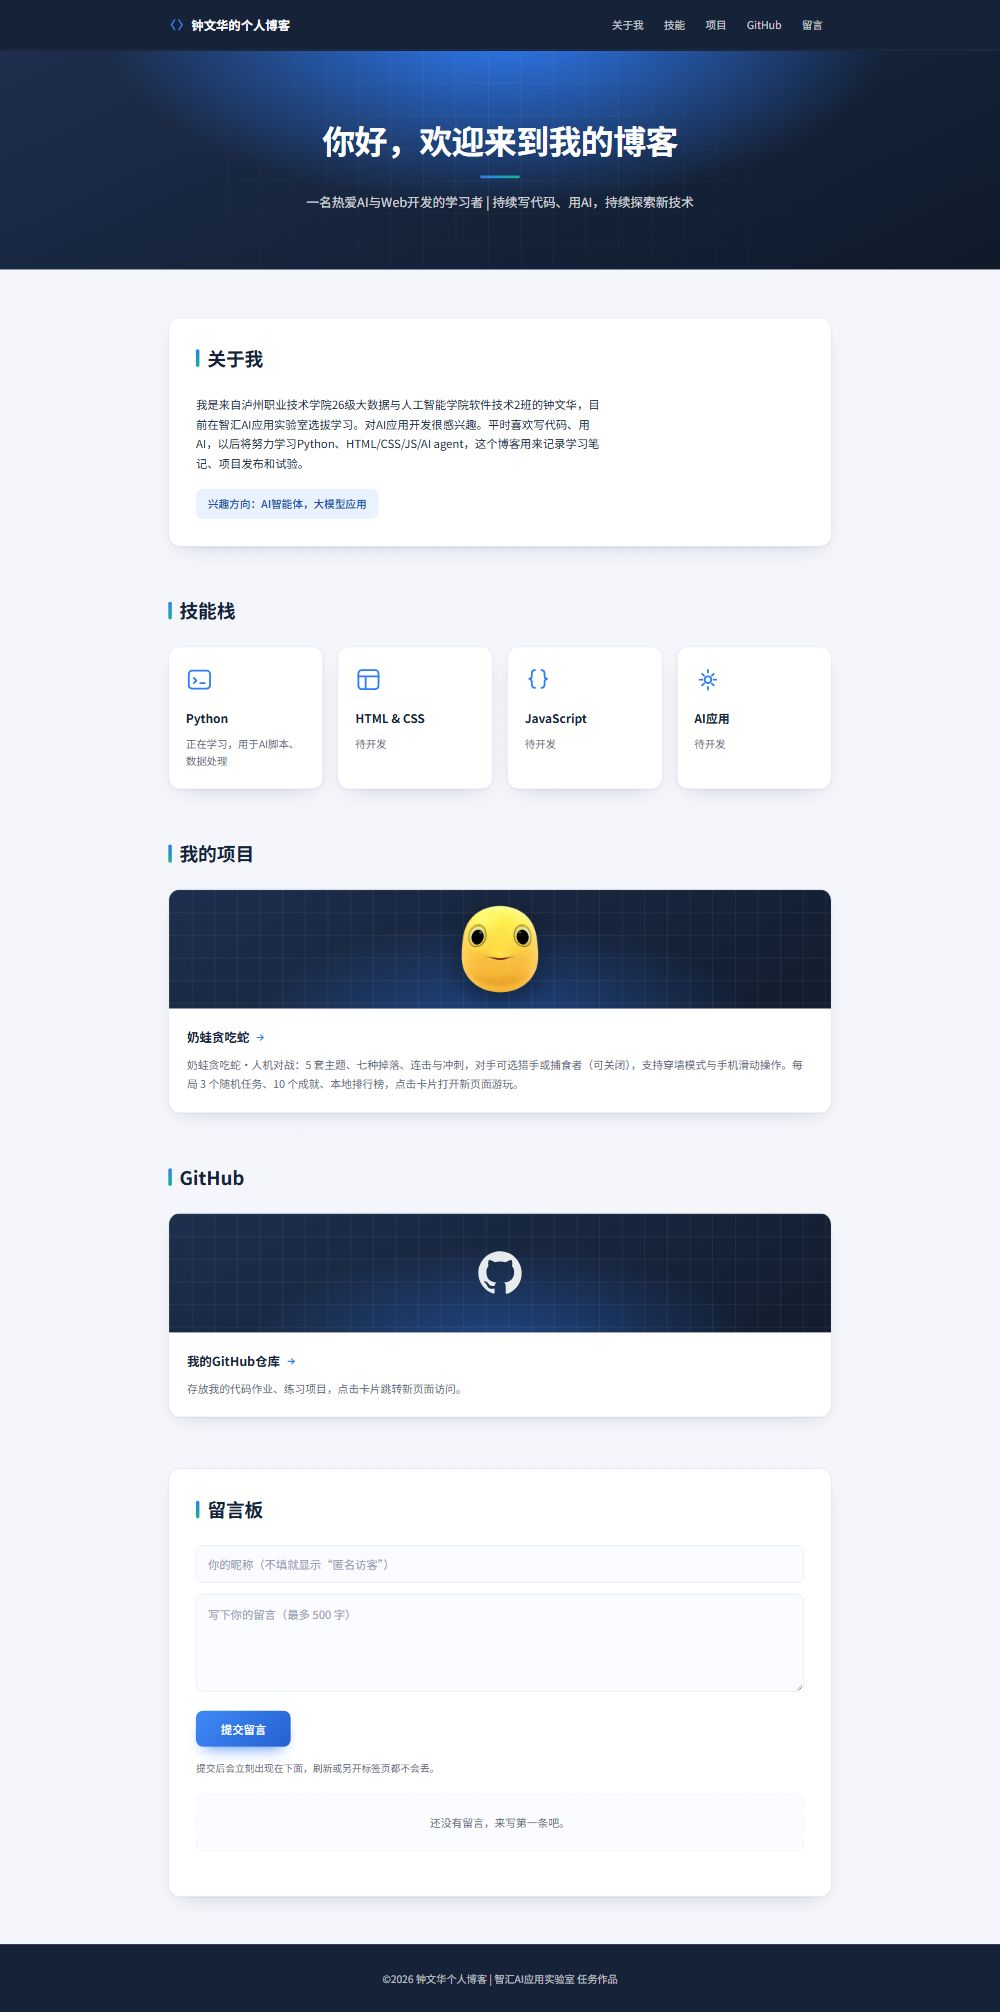
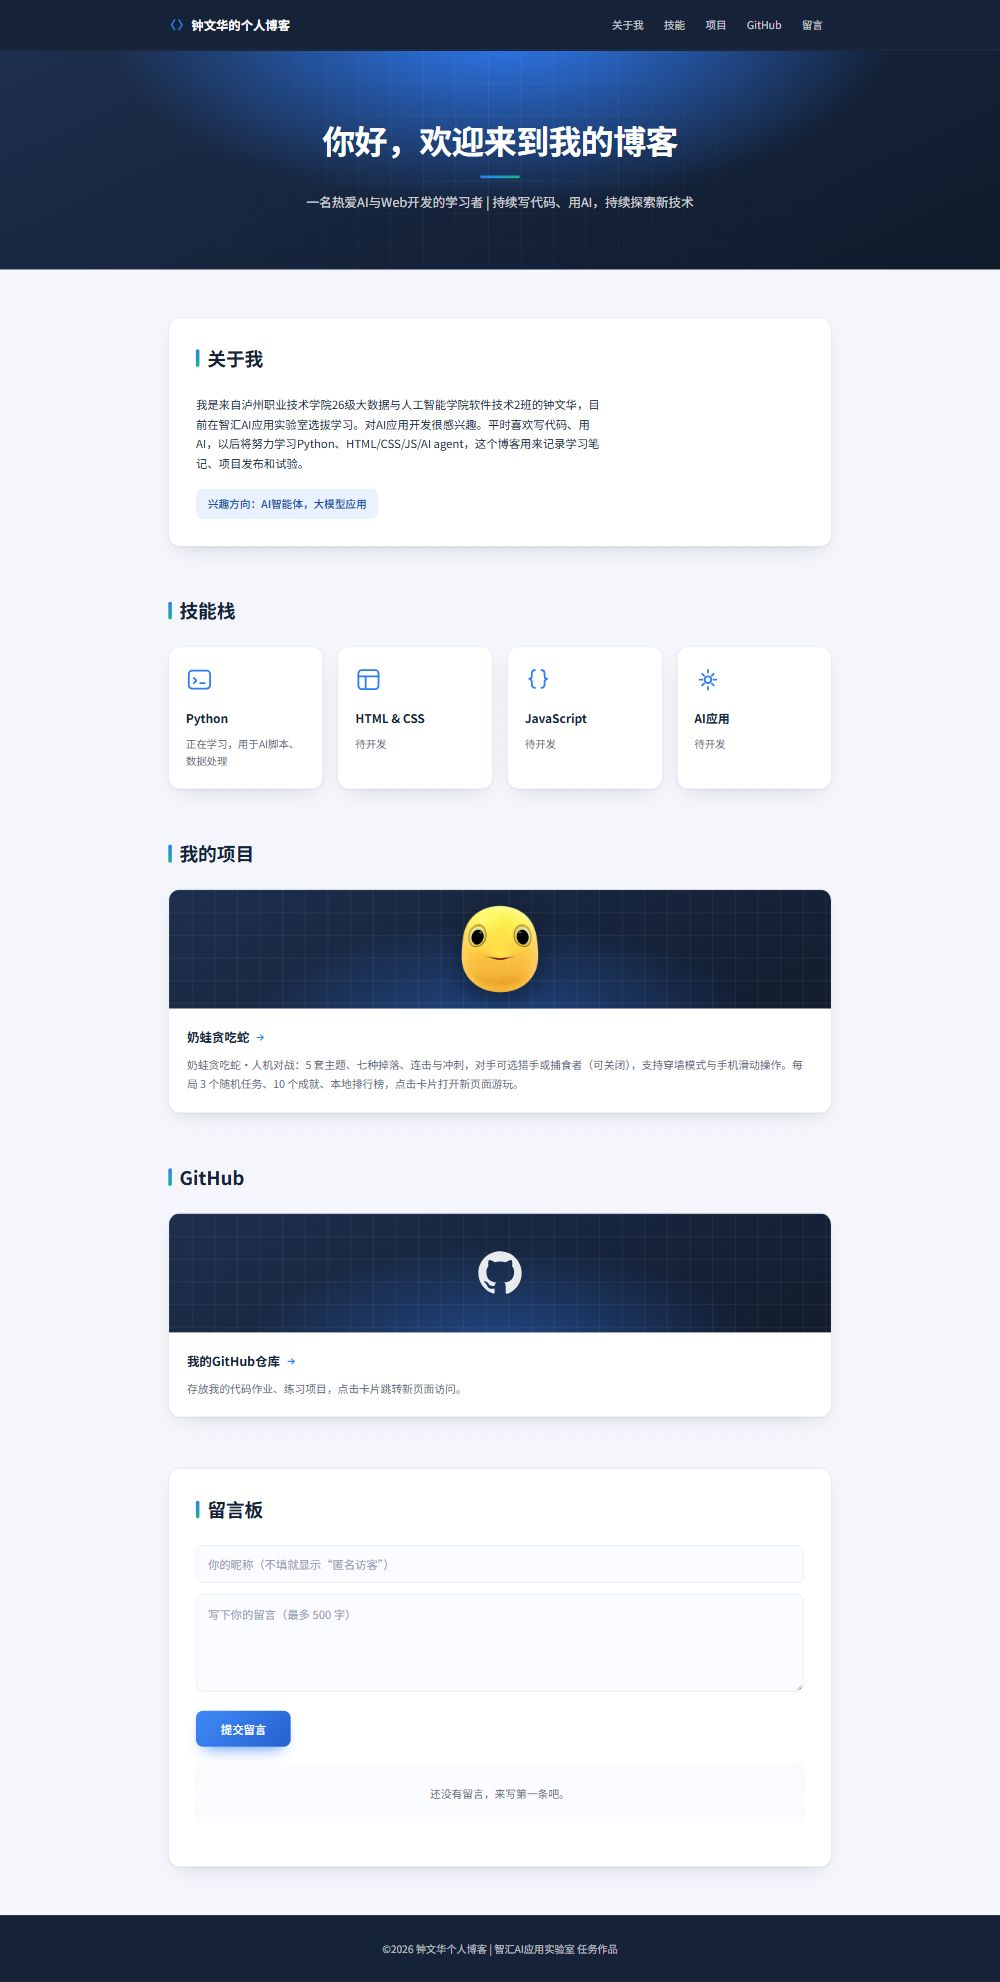
留言板：在线评论区仅在外网 http(s) 生效，本地 file:// 预览继续用本机留言板

diff --git a/index.html b/index.html
@@ -905,7 +905,9 @@
                 document.getElementById('msg').appendChild(box);
             }
 
-            if (GISCUS.repo && GISCUS.repoId && GISCUS.categoryId) {
+            // giscus 只对外网的 http(s) 页面生效（线上站点）；本地双击打开是 file://，直接用下面这套本机留言板
+            const online = location.protocol === 'http:' || location.protocol === 'https:';
+            if (online && GISCUS.repo && GISCUS.repoId && GISCUS.categoryId) {
                 formEl.hidden = true;
                 if (hintEl) hintEl.hidden = true;
                 emptyEl.hidden = true;
